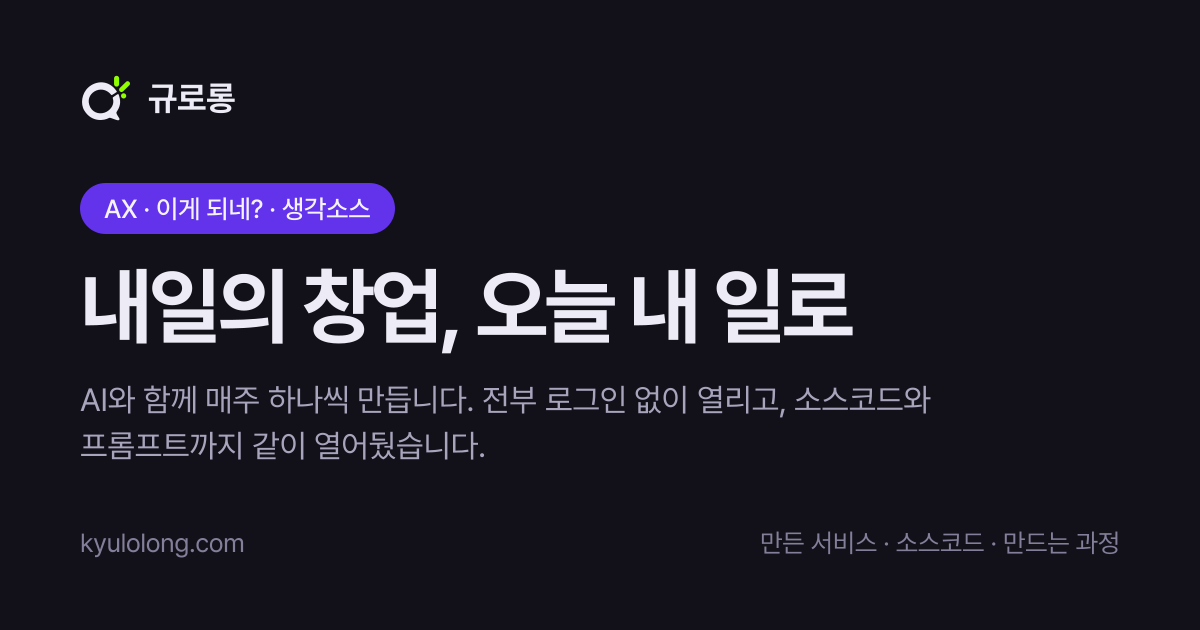
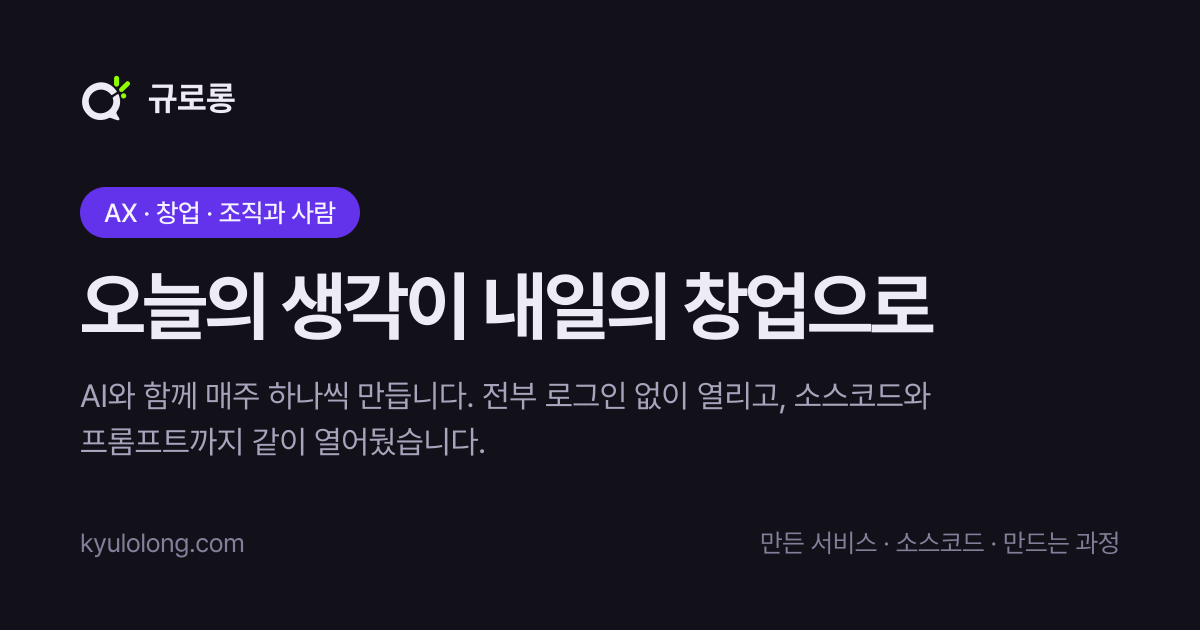
대문을 생각에서 시작한다 — 얼굴은 서명 자리로 내린다
h1 을 "오늘의 생각이 내일의 창업으로" 로 바꾸고 본문 세 문장을 다시 쓴다.
`오늘 → 내일`(시간)과 `생각 → 창업`(변환)이 한 줄에서 교차하는데, 이건 이 사이트의
구조 그대로다 — 대문에서 글이 서비스보다 위에 오는 이유가 "쌓이는 건 생각이고 만든
것은 그 증거"라서인데(app/page.tsx), 이제 첫 줄이 그 순서를 먼저 말한다. 그래서
바로 아래 첫 섹션이 "생각들"인 게 자연스럽게 읽힌다.

본문 세 문장의 역할은 [믿음 → 자격 → 약속] 이다. 2번(직접 만들고, 사업하고,
생각합니다)을 빼면 1번이 그냥 좋은 말이 되고 3번이 근거를 잃는다.

얼굴을 맨 위에서 버튼 아래로 내렸다. 위에 있으면 대문이 자기소개로 시작하는데
이 페이지가 먼저 해야 할 말은 h1 이다. 대문에서 사람을 빼지는 않는다 — 인스타에서
얼굴을 보고 넘어오는 채널이라 사람이 없으면 두 채널이 남처럼 갈린다. 이름은
지웠다: 헤더 워드마크가 이미 "규로롱"이라 한 화면에 이름이 둘이 되고, 남은 한 줄이
직함이라 그게 서명이 된다. 사진에서 priority 도 뗐다 — LCP 가 h1 텍스트로 옮겨갔다.

같은 문장이 박혀 있는 세 곳을 같이 맞췄다.

  lib/seo.ts        SITE_TITLE (탭·검색 제목) + OG alt
  scripts/make-og.tsx  카드 제목 84 → 76px

⚠ 카드 제목 크기를 또 내렸다. 안쪽 폭이 1040px 이고 한글은 자간 -0.045em 에서
글자당 약 0.955em 을 먹는다 — 13자 + 공백 3 이면 84px 에서 1119px 라 넘친다.
계산식을 주석에 적어뒀으니 문구를 바꿀 땐 글자 수부터 셀 것.

그리고 눈썹 줄이 이미 "AX · 창업 · 조직과 사람" 으로 바뀌어 있었는데 make-og 만
"AX · 이게 되네? · 생각소스" 로 남아 있었다. 링크 미리보기와 도착한 화면이 다른
말을 하고 있었으므로 같이 고쳤다.

Changed region(s): [[0.0617, 0.4222, 0.8017, 0.573], [0.0617, 0.6032, 0.7708, 0.7238], [0.0617, 0.2714, 0.3392, 0.3921]]

diff --git a/components/hero.tsx b/components/hero.tsx
@@ -29,38 +29,6 @@ export function Hero() {
        사이에 화면 반 개짜리 빈 칸이 생겨서, 넓은 게 아니라 끊긴 것처럼 보인다. */
     <section className="mx-auto w-full max-w-[1120px] px-6 pt-14 pb-4 sm:px-8 sm:pt-24 sm:pb-6">
       <div className="max-w-[46rem]">
-        {/*
-          얼굴이 맨 위에 온다.
-
-          예전엔 이 사이트의 유일한 사진이 /about 에만 있었다. 인스타에서 얼굴을
-          보고 넘어오는 채널인데 대문에 사람이 없으면 두 채널이 남처럼 갈린다.
-
-          ⚠ **아바타 크기를 키우지 말 것.** 원본은 778×1202 세로 사진이라 크게
-          깔고 싶어지는데, 375×667 에서 4:5 로 깔면 제목과 형광 버튼이 첫 화면
-          밖으로 밀린다. "인물 사진이 맨 위"는 이 크기로 이미 충족된다.
-
-          object-[50%_30%] — 얼굴이 세로 30% 지점에 있다. 정가운데로 자르면
-          이마가 날아가고 랩탑만 남는다.
-        */}
-        <div className="flex items-center gap-3.5">
-          <Image
-            src="/kyulolong2.png"
-            alt="랩탑 앞에 앉아 있는 규로롱"
-            width={112}
-            height={112}
-            sizes="(min-width: 768px) 7rem, 5rem"
-            className="bg-surface-2 size-20 shrink-0 rounded-full object-cover object-[50%_30%] md:size-28"
-            /* 대문의 LCP 다 */
-            priority
-          />
-          <div>
-            <p className="text-[1.0625rem] font-bold tracking-[-0.02em]">규로롱</p>
-            {/* 화살표 하나가 이력서 한 줄보다 많은 걸 말한다.
-                §6 이 금지한 건 버튼 라벨 뒤의 장식 화살표고, 이건 문장이다. */}
-            <p className="text-ink-faint mt-0.5 text-sm">인사담당자 → AX하는 창업가</p>
-          </div>
-        </div>
-
         {/* 세 키워드가 처음 닿는 자리. 인스타 썸네일·소개글에 박혀 있는 말들이라
             릴스를 보고 넘어온 사람이 같은 얼굴을 만난다.
 
@@ -75,32 +43,28 @@ export function Hero() {
             아니라 누가 세면서 쌓아온 기록으로 읽힌다. 예전엔 고정폭을 못 썼는데
             (스택에 한글이 없어서 이 줄만 시스템 폰트로 떨어졌다) 이제 --font-mono
             안에 Pretendard 가 있어서 한글도 본문과 같은 얼굴로 앉는다. */}
-        <p className="text-ink-faint mt-9 font-mono text-[13px] tracking-[0.04em] sm:mt-11">
-          AX · 이게 되네? · 생각소스
+        <p className="text-ink-faint font-mono text-[13px] tracking-[0.04em]">
+          AX · 창업 · 조직과 사람
         </p>
 
         {/*
           이 한 줄이 대문의 논지다.
 
-          ⚠ **`내일` 과 `내 일` 의 띄어쓰기 차이는 오타가 아니라 이 문장의 전부다.**
-          [내일 = tomorrow] 와 [내 일 = my work] 이 같은 소리라, 한 줄에 둘 다
-          놓으면 "내일의 일"이 "내 일"이 되는 게 문장 자체로 보인다. 한쪽만 남기면
-          그 순간 오타가 되므로 **둘을 반드시 같은 줄에 둔다.**
+          `오늘 → 내일`(시간)과 `생각 → 창업`(변환)이 한 줄에서 교차한다. 이 사이트의
+          구조가 그대로 문장이 된 것이다 — 대문에서 글이 서비스보다 위에 오는 이유가
+          "쌓이는 건 생각이고 만든 것은 그 증거"라서인데(app/page.tsx), 이 줄이 그
+          순서를 먼저 말한다. 그래서 아래 첫 섹션이 "생각들"인 게 자연스럽게 읽힌다.
 
-          축이 두 개 겹친다 — `내일 ↔ 오늘`(시간)과 `내일 ↔ 내 일`(같은 소리).
-          인스타 소개 1행이 "내일의 창업, 오늘 시작합니다" 라 앞이 똑같다:
-          릴스를 보고 넘어온 사람이 같은 사람을 만나되 같은 문장을 또 읽지는 않는다.
+          ⚠ **주어가 '생각'이지 '나'가 아니다.** "제가 창업합니다"로 고쳐 쓰고 싶어지면
+          그 순간 이 줄이 자기소개가 되고, 읽는 사람이 자기 자리를 못 찾는다.
 
           예전엔 여기가 `이게 되네?` 였다. 그건 **만드는 사람의 감탄사**지 창업가의
           문장이 아니라서, 채널이 "AX하는 창업가" 로 옮겨가면서 자리가 안 맞게 됐다.
-          버린 게 아니라 제자리로 내려놨다 — 바로 위 눈썹 줄에 시리즈명으로 그대로
-          있고, 영상 여섯 편이 여전히 그 이름으로 묶여 있다.
-
-          두 줄로 접히는 게 맞다. `내일의 창업,` / `오늘 내 일로` 로 갈려서
-          말장난이 둘째 줄 머리에 떨어지고, 커서가 그 끝에서 깜빡인다.
+          버린 게 아니라 제자리로 내려놨다 — 시리즈명으로 그대로 있고, 영상 여섯 편이
+          여전히 그 이름으로 묶여 있다.
         */}
         <h1 className="mt-4 text-[clamp(2.75rem,7vw,4.5rem)] leading-[1.14] font-extrabold tracking-[-0.035em] text-balance">
-          내일의 창업, 오늘 내 일로
+          오늘의 생각이 내일의 창업으로
           {/*
             **이 화면의 형광 한 점이다 (§2). 그리고 이 페이지에서 움직이는 유일한 것.**
 
@@ -129,15 +93,19 @@ export function Hero() {
         {/*
           세 문장이 각각 다른 일을 한다. 고칠 때 이 역할부터 볼 것.
 
-            1. 출발선의 좌표 — 읽는 사람이 자기 위치를 잰다
-            2. 인사이트의 출처 — 여기 뭐가 쌓이는지
-            3. 가져갈 수 있다는 증거 — 읽고 끝나는 곳이 아니다
+            1. 믿음 — 이 채널이 무엇을 자산으로 보는가
+            2. 자격 — 그 말을 할 수 있는 자리에 있는가 (만들고·사업하고·생각한다)
+            3. 약속 — 그래서 여기 무엇이 쌓이는가
+
+          2번을 빼면 1번이 그냥 좋은 말이 되고 3번이 근거를 잃는다. 셋 중 하나만
+          남겨야 한다면 2번이다.
 
           같은 어미로 끝나는 칸이 둘만 생겨도 문장이 아니라 나열로 읽힌다.
         */}
         <p className="text-ink-soft mt-6 max-w-[38rem] text-lg text-pretty sm:text-xl">
-          인사담당자로 10년, 코드는 한 줄도 못 짰습니다. 지금은 AI와 함께 만들고,
-          만들면서 알게 된 것을 여기 적습니다. 걸린 시간도 쓴 프롬프트도 그대로 열어뒀어요.
+          창업자에게 가장 중요한 자산은 자기만의 생각이라고 믿습니다. AI 전환의
+          한가운데에서 직접 만들고, 사업하고, 생각합니다. AX를 하는 사업자가 무엇을
+          보고, 무엇을 고민하며, 어디로 향하는지 기록합니다.
         </p>
 
         {/* 버튼은 하나다 (§8).
@@ -162,6 +130,36 @@ export function Hero() {
           >
             소개 더 보기
           </Link>
+        </div>
+
+        {/*
+          얼굴이 맨 아래로 내려왔다. **서명(落款)의 자리다.**
+
+          위에서 주장을 먼저 하고 "누가 하는 말인지"를 뒤에서 밝히는 순서다. 얼굴이
+          맨 위에 있으면 대문이 자기소개로 시작하는데, 이 페이지가 먼저 해야 할 말은
+          위의 한 줄이다. 그래도 대문에서 사람을 빼지는 않는다 — 인스타에서 얼굴을
+          보고 넘어오는 채널이라 대문에 사람이 없으면 두 채널이 남처럼 갈린다.
+
+          이름을 적지 않는다. 헤더의 워드마크가 이미 "규로롱"이고, 여기서 한 번 더
+          쓰면 한 화면에 이름이 둘이 된다. 남는 한 줄은 **직함**이라 서명이 된다.
+
+          object-[50%_30%] — 얼굴이 세로 30% 지점에 있다. 정가운데로 자르면
+          이마가 날아가고 랩탑만 남는다.
+
+          ⚠ priority 를 떼었다. 맨 위에 있을 때는 이 사진이 대문의 LCP 였지만
+          이제 LCP 는 위의 h1 텍스트다. 작은 사진에 priority 를 남겨두면 그 요청이
+          정작 먼저 그려져야 할 것과 대역폭을 다툰다.
+        */}
+        <div className="mt-14 flex items-center gap-3.5 sm:mt-16">
+          <Image
+            src="/kyulolong2.png"
+            alt="랩탑 앞에 앉아 있는 규로롱"
+            width={112}
+            height={112}
+            sizes="(min-width: 768px) 4rem, 3.5rem"
+            className="bg-surface-2 size-14 shrink-0 rounded-full object-cover object-[50%_30%] md:size-16"
+          />
+          <p className="text-ink-faint text-sm">AX하는 창업가</p>
         </div>
       </div>
     </section>

diff --git a/scripts/make-og.tsx b/scripts/make-og.tsx
@@ -90,28 +90,29 @@ function card() {
         >
           {/* 히어로 눈썹 줄과 같은 문구다 (components/hero.tsx).
               한쪽만 고치면 링크 미리보기와 도착한 화면이 다른 말을 한다. */}
-          AX · 이게 되네? · 생각소스
+          AX · 창업 · 조직과 사람
         </div>
 
         {/* 히어로의 h1 과 같은 문장이다 (components/hero.tsx).
             `내일` 과 `내 일` 의 띄어쓰기 차이가 이 문장의 전부다 — 오타로 보고
             고치지 말 것. 둘이 같은 줄에 있어야 말장난이 오타가 아닌 게 된다.
 
-            ⚠ 116px 에서 84px 로 내렸다. 예전 문구는 다섯 글자라 크게 세울 수
-            있었지만, 이 줄은 열한 글자다. 116px 로 두면 satori 가 카드 안쪽 폭
-            (1200 − 좌우 80 = 1040px)을 넘겨 어디선가 접는데, 하필 `내 일로` 가
-            갈리면 말장난이 통째로 죽는다. 문구를 바꿀 때 글자 수부터 셀 것. */}
+            ⚠ **글자 수를 세고 크기를 정한다.** 카드 안쪽 폭은 1200 − 좌우 80 =
+            1040px 다. 한글은 자간 -0.045em 에서 글자당 대략 0.955em 을 먹으므로
+            (글자수 × 0.955 + 공백수 × 0.3) × fontSize ≤ 1040 이어야 한 줄에 선다.
+            지금 줄은 13자 + 공백 3 이라 76px. 넘기면 satori 가 아무 데서나 접는다.
+            116 → 84 → 76 으로 내려온 이력이 전부 문구가 길어져서다. */}
         <div
           style={{
             marginTop: 28,
-            fontSize: 84,
+            fontSize: 76,
             fontWeight: 700,
             color: INK,
             letterSpacing: "-0.045em",
             lineHeight: 1.05,
           }}
         >
-          내일의 창업, 오늘 내 일로
+          오늘의 생각이 내일의 창업으로
         </div>
 
         <div

diff --git a/lib/seo.ts b/lib/seo.ts
@@ -30,7 +30,7 @@ export const SITE_NAME = "규로롱";
  * **`창업`** 이 들어 있어서, 이름을 모르는 사람이 닿을 수 있는 문이 하나 생긴다.
  * 문구를 다시 고칠 일이 있으면 검색되는 말이 남는지부터 볼 것.
  */
-export const SITE_TITLE = `${SITE_NAME} — 내일의 창업, 오늘 내 일로`;
+export const SITE_TITLE = `${SITE_NAME} — 오늘의 생각이 내일의 창업으로`;
 
 export const SITE_DESCRIPTION =
   "인사담당 출신이 AI와 함께 매주 서비스를 하나씩 만듭니다. 만든 것마다 소스코드와 쓴 프롬프트를 같이 열어뒀고, 전부 로그인 없이 열립니다.";
@@ -45,7 +45,7 @@ export const OG_IMAGE = {
   height: 630,
   // 카드에 실제로 그려진 것을 적는다 (scripts/make-og.tsx). 예전 문구
   // "인사담당자가 · 요청 한 번에 · 앱스토어까지" 는 옛 인스타 소개글이라 카드에 없다.
-  alt: "규로롱 — 내일의 창업, 오늘 내 일로. AX · 이게 되네? · 생각소스",
+  alt: "규로롱 — 오늘의 생각이 내일의 창업으로. AX · 창업 · 조직과 사람",
 } as const;
 
 /**
@@ -111,7 +111,7 @@ export function pageMetadata({
   noIndex,
 }: PageMeta): Metadata {
   // 제목이 없으면 사이트 기본 제목을 그대로 쓴다. 그냥 문자열로 주면 레이아웃의
-  // 템플릿("%s · 규로롱")이 한 번 더 걸려 "규로롱 — 내일의 창업, 오늘 내 일로 · 규로롱"
+  // 템플릿("%s · 규로롱")이 한 번 더 걸려 "규로롱 — 오늘의 생각이 … · 규로롱"
   // 이 된다 — 이름이 두 번 나온다.
   const shareTitle = title ?? { absolute: SITE_TITLE };
   /**
